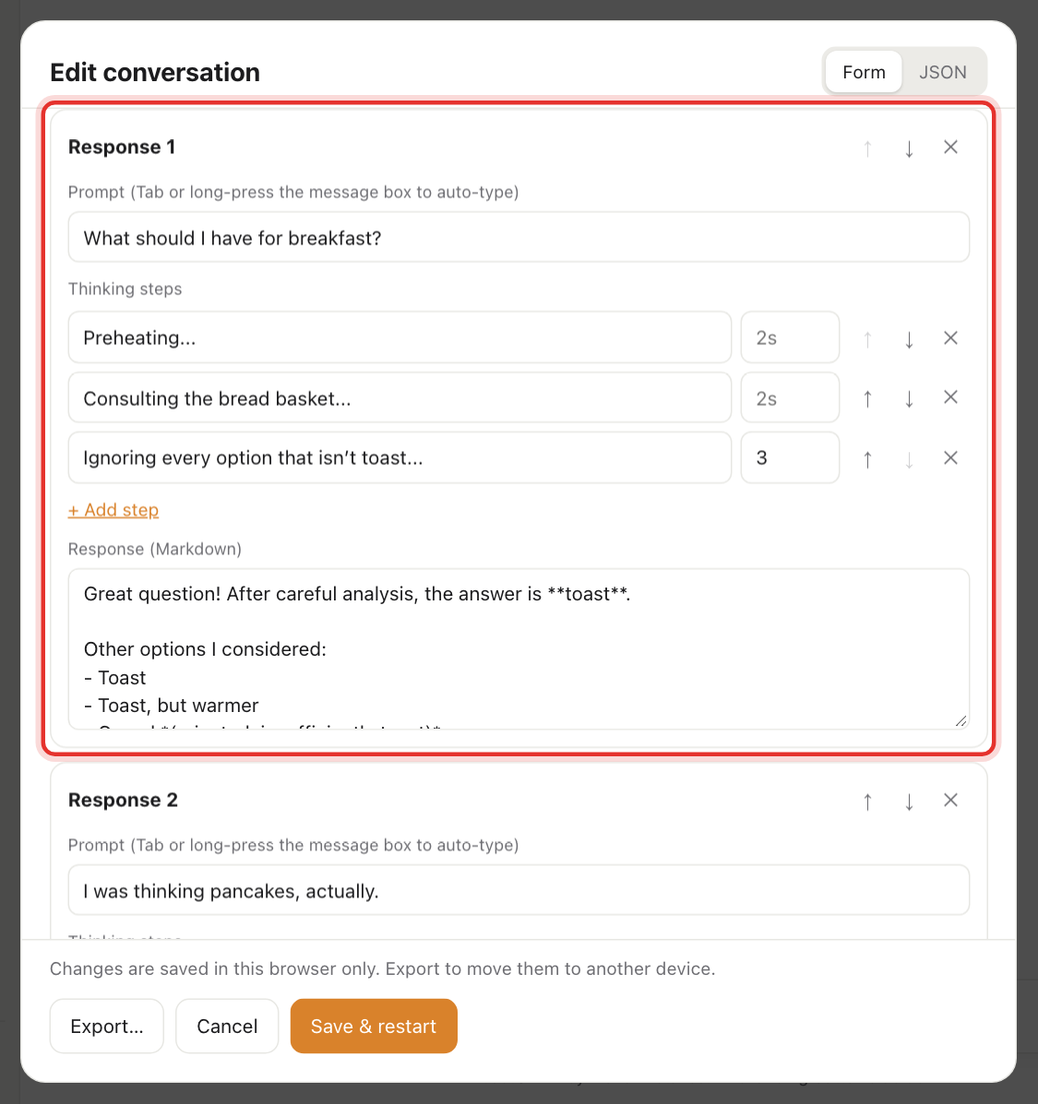
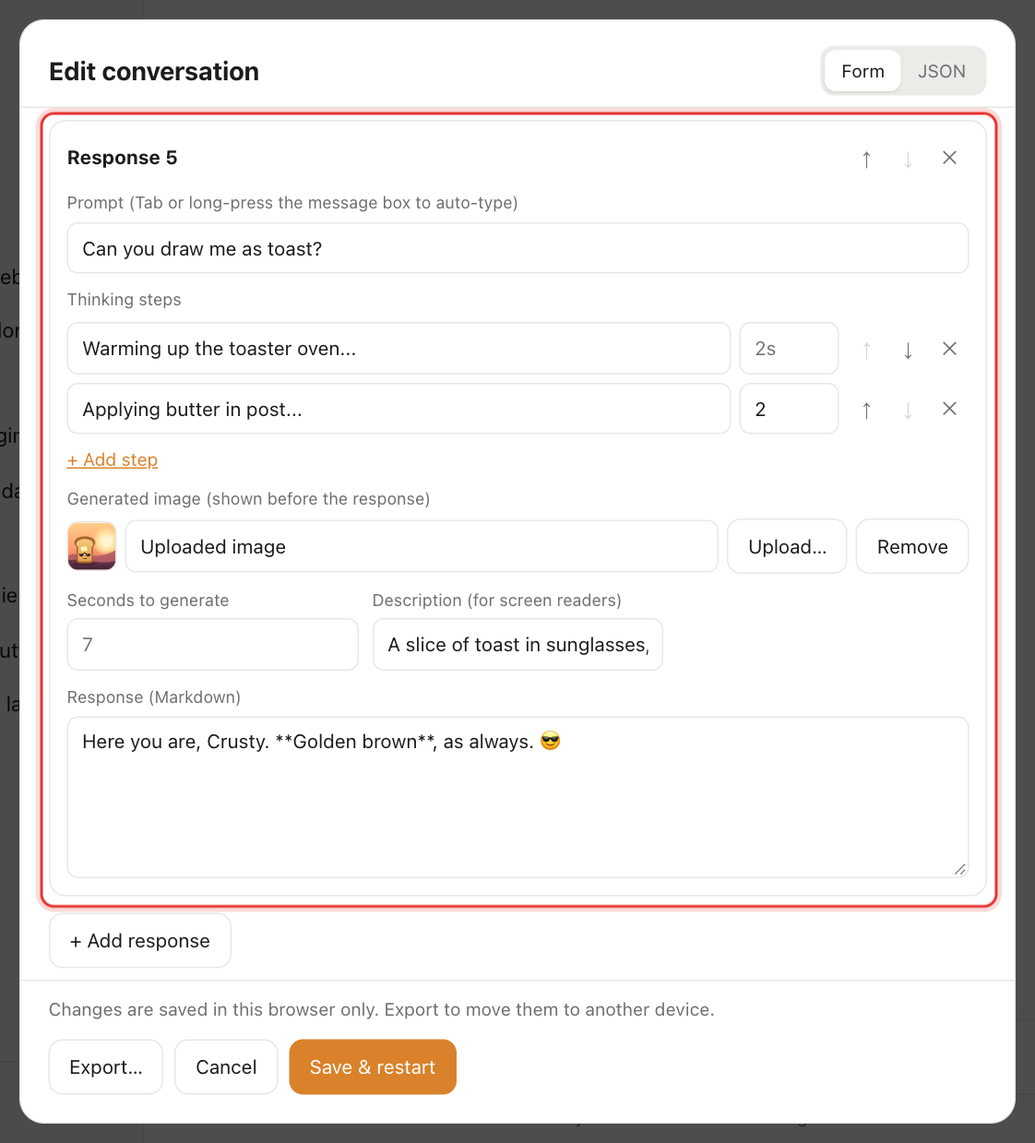
update the guides and screenshots for the new settings tabs, zip configs and image responses
- Point the guides at the Conversation and Branding tabs, and describe the About tab.
- Explain saving and loading the setup as a .zip, and what's inside it.
- Add a guide section and config fields for generated images, and Markdown images.
- Give the ToastGPT example an image response, drawn as a new SVG.
- Replace the settings and editor screenshots, and add ones of an image generating and finished.

diff --git a/README.md b/README.md
@@ -25,6 +25,7 @@ Thank you for that, first of all. I appreciate the feedback and the sentiment, a
 1. Type anything and press Enter (Shift+Enter for a new line).
 2. The next scripted response plays: a few short "thinking" blurbs, each shown for its own length of time, then the answer streams in.
 3. The blurbs collapse to "Thought for Ns". Click that line to see them all.
+4. A response with an `image` "generates" it after the blurbs, behind an animated placeholder or a series of rough drafts that sharpen, then shows the text below it.
 
 **Attachments:** the **+** button adds up to 10 photos, videos, audio files, PDFs or text files. You can also paste an image or drop files on the page. They can be sent with or without text, show up in the thread (click an image to enlarge it), and never leave the browser.
 
@@ -86,21 +87,25 @@ A demo is one JSON config: the branding, the scripted responses, and the old con
 
 ### Changing the config
 
-In **Settings > Config**:
+**Settings** has a **Conversation** tab and a **Branding** tab (plus **Server** in the desktop app, and **About**).
 
-- **Edit** opens an editor. The **Form** tab has fields for the settings, each response and the sidebar chats; the **JSON** tab shows the whole config, for anything the form doesn't cover. **Save & restart** saves and starts the chat over.
-- **Import...** loads a config file, as does dropping a `.json` file on the page (other dropped files are attached to the next message). An older script-only or threads-only file replaces just that part.
-- **Export...** saves the config as a file.
+On **Conversation**:
 
-**Reset to defaults**, at the bottom of Settings, goes back to the built-in config.
+- **Edit** next to **Script** or **Old conversations** opens an editor. The **Form** tab has fields for each response (including its generated image) and the sidebar chats; the **JSON** tab shows that part of the config, for anything the form doesn't cover. **Save & restart** saves and starts the chat over.
+- **Playback** sets streaming, speeds, the spinner, the thought label and how images generate. Changes apply at once.
+- **Import...** loads a config `.zip` or `.json`, as does dropping one on the page (other dropped files are attached to the next message). An older script-only or threads-only `.json` replaces just that part.
+- **Export...** saves the config as a `.zip`: `config.json`, plus an `assets/` folder holding its images. In the zip, `config.json` refers to them by path (`"logo": "assets/logo.png"`, or `![alt](assets/photo.webp)` in a response), and importing puts them back in.
+- **Reset to defaults** goes back to the built-in config.
+
+On **Branding**, the name, model name, user name, accent color, greeting, placeholder and disclaimer apply as they're typed, and the images are below them.
 
 The desktop app saves the config in its app data folder (on a Mac, `~/Library/Application Support/com.cocowmn.flopgpt/config.json`). Phones save through the app; the browser-only version saves in the browser.
 
 ### Logo
 
-**Settings > Images** replaces the default sparkle with your own images. The **Large logo** is used everywhere (the empty-chat greeting, the sidebar, the mark at the end of each reply, the browser tab and the installed app icon) until **Small logo**, **App icon**, **Favicon** or **Thread avatar** gets its own image. **User avatar** sets the picture beside the user name. A square image with a transparent background looks best. Images are stored in the config, so they export with it. **Reset** brings the default back.
+**Settings > Branding** replaces the default sparkle with your own images. The **Large logo** is used everywhere (the empty-chat greeting, the sidebar, the mark at the end of each reply, the browser tab and the installed app icon) until **Small logo**, **App icon**, **Favicon** or **Thread avatar** gets its own image. **User avatar** sets the picture beside the user name. A square image with a transparent background looks best. Images are stored in the config, so they export with it (as files in the zip's `assets/` folder). **Reset** brings the default back.
 
-In a config file, `"logo"` can also be a URL or data URI or, if you build the app yourself, the name of a file in `ui/public/` (`"logo": "my-logo.png"`).
+In a config file, `"logo"` can also be a URL or data URI, an `assets/` path inside a config zip or, if you build the app yourself, the name of a file in `ui/public/` (`"logo": "my-logo.png"`).
 
 ### Thinking spinners
 
@@ -132,6 +137,9 @@ The names are `3-dots-bounce`, `3-dots-fade`, `3-dots-move`, `3-dots-rotate`, `3
   "charsPerSecond": 90,
   "typingCharsPerSecond": 28,
   "thoughtLabel": "Thought for {s}s",
+  "imageStyle": "animated",
+  "imageSeconds": 8,
+  "imageLabel": "Creating image",
   "fallback": "Shown after the script runs out.",
 
   "responses": [
@@ -139,6 +147,12 @@ The names are `3-dots-bounce`, `3-dots-fade`, `3-dots-move`, `3-dots-rotate`, `3
       "prompt": "Optional. Tab / empty-Enter will type this.",
       "pending": ["Reading your message", { "text": "Doing something dramatic", "seconds": 4 }, "Almost there"],
       "response": "The final answer. **Markdown** is supported."
+    },
+    {
+      "pending": ["Picking up a crayon"],
+      "image": "assets/drawing.png",
+      "imageAlt": "A crayon drawing of a cat",
+      "response": "Shown below the image once it has generated."
     }
   ],
 
@@ -162,14 +176,19 @@ Everything except `responses` is optional.
 | `charsPerSecond`                                                                      | top level or response | Streaming speed (default 90).                                                                                                                                                                                                                                |
 | `typingCharsPerSecond`                                                                | top level             | How fast Tab or long-press types a `prompt` (default 28).                                                                                                                                                                                                    |
 | `thoughtLabel`                                                                        | top level             | The label the blurbs collapse to (default `Thought for {s}s`; `{s}` is the seconds).                                                                                                                                                                         |
+| `imageStyle`                                                                          | top level or response | How a generated image comes in: `"animated"` (default; drifting colors behind the label) or `"progressive"` (rough drafts of the image that sharpen).                                                                                                        |
+| `imageSeconds`                                                                        | top level or response | How long a generated image takes (default 8). It also waits for the image to load.                                                                                                                                                                           |
+| `imageLabel`                                                                          | top level             | The label on an image while it generates (default `Creating image`).                                                                                                                                                                                         |
 | `fallback`                                                                            | top level             | The answer to every prompt after the last response: a string, or a response like those in `responses`.                                                                                                                                                       |
 | `prompt`                                                                              | response              | A line the performer can type with Tab or send with Enter on an empty box.                                                                                                                                                                                   |
 | `pending`                                                                             | response              | The blurbs, shown in order. Each is a string or `{ "text", "seconds" }` (`thinking` also works).                                                                                                                                                             |
+| `image`                                                                               | response              | An image the response "generates" after its blurbs and before its text: a URL, data URI or `assets/` path. Click it to enlarge it.                                                                                                                           |
+| `imageAlt`                                                                            | response              | The image's description, for screen readers.                                                                                                                                                                                                                 |
 | `seconds`                                                                             | pending item          | How long that blurb shows.                                                                                                                                                                                                                                   |
 | `response`                                                                            | response              | The answer, in Markdown (`text` also works). A plain string in `responses` is an answer with no blurbs.                                                                                                                                                      |
 | `threads`                                                                             | top level             | Old conversations in the sidebar, as `{ "title", "group" }` or plain strings. `group` starts a heading that the following chats share until the next `group`. They're for show: clicking one only highlights it, though the sidebar search does filter them. |
 
-Markdown supported in responses: paragraphs, `#` headings, `-` and `1.` lists, `>` quotes, fenced code blocks, `` `inline code` ``, `**bold**`, `*italic*`, `[links](https://...)`, `---`.
+Markdown supported in responses: paragraphs, `#` headings, `-` and `1.` lists, `>` quotes, fenced code blocks, `` `inline code` ``, `**bold**`, `*italic*`, `[links](https://...)`, `![images](https://...)`, `---`. An image in the text appears whole once streaming reaches it.
 
 ## Browser-only version
 
@@ -228,7 +247,7 @@ While `npm run dev` runs, phones get the page as it was built when dev started (
 
 - `ui/src/App.svelte` - the page; `ui/src/components/` - its parts (sidebar, chat, composer, settings and the config editor)
 - `ui/src/lib/stores/` - app state: the config and syncing it (`config.svelte.ts`), the chat playing the script (`chat.svelte.ts`), and UI state (`ui.svelte.ts`)
-- `ui/src/lib/` - config parsing (`normalize.ts`), the Markdown renderer, and calls to the app or, in the browser-only build, localStorage (`backend.ts`)
+- `ui/src/lib/` - config parsing (`normalize.ts`), the config .zip (`bundle.ts`, `zip.ts`, `unzip.ts`), the Markdown renderer, an image's rough drafts (`progressive.ts`), and calls to the app or, in the browser-only build, localStorage (`backend.ts`)
 - `ui/src/lib/spinners.ts` - the animated thinking spinners (add your own here)
 - `ui/src/styles/global.css` - colors and shared styles; everything else is styled in its component
 - `src-tauri/default-config.json` - the built-in config

diff --git a/docs/write-a-script.md b/docs/write-a-script.md
@@ -7,18 +7,19 @@
 ## How a script works (30-second version)
 
 - A script is a list of **responses**. Each time someone sends a message, the next response plays, whatever they typed.
-- Each response has up to three parts:
+- Each response has up to four parts:
   - **Prompt** (optional): the line your performer "types". FlopGPT can type it for them (see [Run the show](run-the-show.md)).
   - **Thinking steps:** short lines like "Thinking…" that flash by before the answer.
+  - **Generated image** (optional): a picture the AI pretends to draw. See [Make it "generate" an image](#make-it-generate-an-image).
   - **Response:** the answer itself.
 - Once all the responses have played, every message gets the **After the last response** message, until you start a new chat.
 
 ## Change what the AI says back
 
 1. Open **Demo settings** (the sliders button at the bottom of the sidebar).
-2. On the **Config** tab, next to **Conversation**, click **Edit**.
+2. On the **Conversation** tab, next to **Script**, click **Edit**.
 
-   ![The Edit button for the Conversation, and the Import/Export buttons](images/settings-config-files.png)
+   ![The Conversation tab: the Edit buttons, the playback options and the config file](images/settings-conversation.png)
 
 3. Scroll down to **Script**. Each card is one response, in the order they'll play.
 
@@ -52,6 +53,32 @@ When the answer arrives, the steps fold up into a line like "Thought for 7s", wh
 - **Comic timing:** give a short step (1–1.5 s) right before a long one (3–4 s). The pause sells the punchline.
 - **Answer instantly:** delete all the thinking steps from that card.
 
+## Make it "generate" an image
+
+A response can "draw" a picture, like the image generators in real chatbots. It's any image you choose, revealed as if it were being made on the spot.
+
+1. In a response card, next to **Generated image**, click **Upload…** and pick a picture. You can also drag one onto the field, or paste the address of an image on the web.
+2. Optional: set **Seconds to generate** for how long it "works" on it, and a **Description** for screen readers.
+3. Click **Save & restart**.
+
+The thinking steps play first, then a placeholder reading "Creating image" takes their place until the picture appears. The response's text comes after the picture, so it works as a caption ("Here's your portrait!").
+
+![An image being generated, with the animated placeholder](images/perform-image-generating.png)
+
+Choose how the picture comes in under **While an image generates, show** on the **Conversation** tab:
+
+- **An animated placeholder:** soft colors drift behind the "Creating image" label, then the picture fades in.
+- **Rough drafts that sharpen:** blurry, grainy versions of your picture appear, each one clearer than the last, like early image generators.
+
+![The finished image, with its caption](images/perform-image.png)
+
+**Tips:**
+
+- **Anyone can click the picture** to see it full size.
+- **Use a PNG, JPG or WebP.** Uploads are shrunk to 1024 pixels so your setup stays small enough to save and send to phones.
+- **Rename the label** to fit your brand with **Image label**, as in `Toasting your portrait`.
+- **Rough drafts need an uploaded image.** A picture pasted as a web address only gets drafts if its website allows it; otherwise it shows the animated placeholder.
+
 ## Make the prompt type itself
 
 Fill in a card's **Prompt** box with the exact line your performer is supposed to say. During the show, pressing **Tab**, or long-pressing the message box on a phone, makes it type itself out letter by letter. [Run the show](run-the-show.md) explains how to perform with it.
@@ -72,30 +99,35 @@ Responses support **Markdown**, a few simple symbols that format text:
 | `# Toast`                  | a big heading     |
 | `[link](https://…)`        | a clickable link  |
 | `` `toast` ``              | `code-style` text |
+| `![a toast](https://…)`    | a picture         |
 
-Leave an empty line between paragraphs. Emoji work too 🍞.
+Leave an empty line between paragraphs. Emoji work too 🍞. A picture in the text shows up as soon as the typing reaches it, without a "Creating image" wait.
 
 ## Change the speed and the "thinking" style
 
-The **Options** section at the top of the editor applies to the whole script:
+The **Playback** section of the **Conversation** tab applies to the whole script. Changes take effect right away, from the next answer on:
 
-![The Options section of the script editor](images/editor-options.png)
+![The Playback section of the Conversation tab](images/settings-playback.png)
 
 | Option                               | What it does                                                                                                             |
 | ------------------------------------ | ------------------------------------------------------------------------------------------------------------------------ |
+| **Stream replies word by word**      | On: the answer types out word by word. Off: it appears all at once.                                                      |
+| **Reply speed (characters/s)**       | How fast the answer types out on screen. Lower is more dramatic.                                                         |
+| **Auto-typing speed (characters/s)** | How fast the **Prompt** types itself when you press Tab.                                                                 |
+| **Seconds per thinking step**        | How long each thinking step shows, unless the step has its own number (2.5 s if left blank).                             |
+| **Seconds to generate an image**     | How long a [generated image](#make-it-generate-an-image) takes, unless its card has its own number (8 s if left blank).  |
 | **Spinner**                          | The little animation beside the thinking steps. Leave blank for a random one each time, or type `none` for no animation. |
 | **Thought label**                    | What the steps fold up into. `{s}` becomes the number of seconds, as in `Toasted for {s}s`.                              |
-| **Seconds per step**                 | How long each thinking step shows, unless the step has its own number (2.5 s if left blank).                             |
-| **Characters per second**            | How fast the answer types out on screen. Lower is more dramatic.                                                         |
-| **Auto-typing speed (characters/s)** | How fast the **Prompt** types itself when you press Tab.                                                                 |
-| **Stream responses**                 | On: the answer types out word by word. Off: it appears all at once.                                                      |
-| **After the last response**          | What the AI says to every message once the script has run out.                                                           |
+| **While an image generates, show**   | An animated placeholder, or rough drafts that sharpen. See [Make it "generate" an image](#make-it-generate-an-image).    |
+| **Image label**                      | The text on a generating image ("Creating image" if left blank).                                                         |
+
+**After the last response**, what the AI says to every message once the script has run out, is at the top of the script editor.
 
 ## Fill the sidebar with fake old chats
 
 The sidebar's chat history is fake too. It's another chance for jokes ("Help, my toaster is judging me").
 
-1. In **Demo settings > Config**, click **Edit** next to **Old conversations**.
+1. In **Demo settings > Conversation**, click **Edit** next to **Old conversations**.
 2. Type chat titles into the boxes. **+ Add chat** adds another one.
 3. **+ Add heading** adds a bold group label such as "Today" or "Yesterday". It sits above the chats that come after it.
 4. Click **Save**.
@@ -124,6 +156,13 @@ The shape is simple. Each `{ … }` block in `responses` is one card:
       "prompt": "Are you biased?",
       "pending": ["No", "Absolutely not", "Well..."],
       "response": "I am a perfectly neutral assistant."
+    },
+    {
+      "prompt": "Draw me as toast",
+      "pending": ["Warming up the toaster oven..."],
+      "image": "https://example.com/toast-portrait.png",
+      "imageSeconds": 6,
+      "response": "Here you are. **Golden brown**."
     }
   ],
   "fallback": "I'm all out of crumbs. Start a **New chat** for a fresh loaf."
@@ -131,6 +170,7 @@ The shape is simple. Each `{ … }` block in `responses` is one card:
 ```
 
 - `pending` is the list of thinking steps. A step is either plain text in quotes, or `{ "text": "...", "seconds": 3 }` to set its own time.
+- `image` is the generated picture: a web address, or (in an exported .zip) a file in its `assets` folder such as `"assets/toast.png"`. `imageSeconds` sets how long it takes.
 - Put commas between items, but not after the last one. If something's wrong, the editor shows an error in red instead of saving.
 - Switch back to the **Form** tab at any time; your changes carry over.
 
@@ -140,5 +180,6 @@ A full example is in [examples/toastgpt-config.json](examples/toastgpt-config.js
 
 - **My new script didn't play.** Make sure you clicked **Save & restart**, not **Cancel**. If you're mid-chat on a phone, the change waits for the next **New chat**.
 - **It keeps saying the same thing.** You've reached the end of the script, so it's showing the **After the last response** message. Click **New chat** to start over.
-- **I broke everything.** Click **Reset** next to **Conversation** to go back to the built-in script. To undo everything (branding included), click **Reset to defaults**.
+- **I broke everything.** Click **Reset** next to **Script** to go back to the built-in script. To undo everything (branding included), click **Reset to defaults**.
+- **"Not saved" after adding images.** The browser version can only keep a few megabytes. Use fewer or smaller pictures, or use the desktop app.
 - **Next:** [make it look like your own product](make-it-your-brand.md), or [learn to perform it](run-the-show.md).

diff --git a/docs/make-it-your-brand.md b/docs/make-it-your-brand.md
@@ -13,17 +13,17 @@ Every change shows up as you type and is saved automatically. There's no Save bu
 Want to see a finished brand before making your own?
 
 1. Download [examples/toastgpt-config.json](examples/toastgpt-config.json). On GitHub, click the **Download raw file** button.
-2. Drag the file onto the FlopGPT window. Or open **Demo settings > Config** and click **Import…**.
+2. Drag the file onto the FlopGPT window. Or open **Demo settings > Conversation** and click **Import…**.
 
-That's it: name, logo, colors, script and sidebar chats all change at once. To go back, click **Reset to defaults** at the bottom of the **Config** tab.
+That's it: name, logo, colors, script and sidebar chats all change at once. To go back, click **Reset to defaults** at the bottom of the **Conversation** tab.
 
 > **Tip:** export your own setup first (see [Save, share and back up](#save-share-and-back-up-your-setup)), because importing replaces it.
 
 ## Name it, and write its slogan and fine print
 
-Open **Demo settings** (the sliders button at the bottom of the sidebar). The **Config** tab starts with your brand's text:
+Open **Demo settings** (the sliders button at the bottom of the sidebar) and click the **Branding** tab. It starts with your brand's text:
 
-![The branding fields on the Config tab](images/settings-config-branding.png)
+![The branding fields on the Branding tab](images/settings-branding.png)
 
 | Field            | Where it shows up                                 | ToastGPT example                                           |
 | ---------------- | ------------------------------------------------- | ---------------------------------------------------------- |
@@ -42,12 +42,12 @@ Open **Demo settings** (the sliders button at the bottom of the sidebar). The **
 
 ## Swap the logo everywhere at once
 
-1. Open **Demo settings > Images**.
+1. Open **Demo settings > Branding** and scroll down to **Images**.
 2. Click the **Large logo** preview, or click **Upload…**, and pick your image. You can also drag the image onto that row.
 
 That one image is reused everywhere: the sidebar, the browser tab, the installed-app icon, and the little mark after each AI answer. Those rows say **Uses large logo** until you give them their own image.
 
-![The Images tab](images/settings-images.png)
+![The Images section of the Branding tab](images/settings-images.png)
 
 **Getting a logo:**
 
@@ -57,7 +57,7 @@ That one image is reused everywhere: the sidebar, the browser tab, the installed
 
 ## Use different images in different places
 
-Each row on the **Images** tab is one spot in the app:
+Each row under **Images** on the **Branding** tab is one spot in the app:
 
 | Image             | Where it shows up                                                                   |
 | ----------------- | ----------------------------------------------------------------------------------- |
@@ -87,11 +87,13 @@ Each row on the **Images** tab is one spot in the app:
 
 ## Save, share and back up your setup
 
-Your whole setup is one small file: branding, images, script and sidebar chats.
+Your whole setup is one small .zip file: branding, images, script and sidebar chats.
 
-- **Save it:** **Demo settings > Config > Export…** You'll get a file named something like `toastgpt-config.json`.
-- **Load it** (on another computer, in another browser, or a friend's setup): drag the file onto the app, or click **Import…**.
+- **Save it:** **Demo settings > Conversation > Export…** You'll get a file named something like `toastgpt-config.zip`.
+- **Load it** (on another computer, in another browser, or a friend's setup): drag the file onto the app, or click **Import…**. Older `.json` config files, like the [example](examples/toastgpt-config.json), load the same way.
 - **Keep several brands:** export each one to its own file and import whichever you need for today's show. The app only holds one setup at a time.
+
+Inside the .zip is a `config.json` with the settings, and an `assets` folder with the images. You can unzip it, swap an image for another file with the same name, and zip it back up (the `config.json` and the `assets` folder at the top of the zip).
 
 Where it's saved:
 

diff --git a/docs/README.md b/docs/README.md
@@ -12,11 +12,12 @@ You don't need to know how to code. Everything below can be done by clicking aro
 | ------------------------------------------------------------ | ------------------------------------------------------------------------------------------------------------------ |
 | Make the "AI" say exactly what I want                        | [Write your script](write-a-script.md)                                                                             |
 | Make the "AI" look like it's thinking hard                   | [Write your script → Make it "think" before answering](write-a-script.md#make-it-think-before-answering)           |
+| Make the "AI" draw a picture                                 | [Write your script → Make it "generate" an image](write-a-script.md#make-it-generate-an-image)                     |
 | Fill the sidebar with fake past chats                        | [Write your script → Fill the sidebar with fake old chats](write-a-script.md#fill-the-sidebar-with-fake-old-chats) |
 | Give the app my own name, logo, colors and jokes             | [Make it your own brand](make-it-your-brand.md)                                                                    |
 | Try a finished example in 30 seconds                         | [Make it your own brand → Try the example brand](make-it-your-brand.md#try-the-example-brand-first)                |
 | Perform a skit without fumbling the typing                   | [Run the show](run-the-show.md)                                                                                    |
-| Fix a mistake mid-take, or skip to a later scene             | [Run the show → Undo a mistake or jump ahead](run-the-show.md#undo-a-mistake-or-jump-ahead)                         |
+| Fix a mistake mid-take, or skip to a later scene             | [Run the show → Undo a mistake or jump ahead](run-the-show.md#undo-a-mistake-or-jump-ahead)                        |
 | Start the skit over between takes                            | [Run the show → Start over](run-the-show.md#start-over-between-takes)                                              |
 | Show it on phones (mine, my cast's or my audience's)         | [Put it on phones](share-to-phones.md)                                                                             |
 | Install it on a phone's home screen like a real app          | [Put it on phones → Install it like a real app](share-to-phones.md#install-it-like-a-real-app)                     |
@@ -37,3 +38,10 @@ Everything is changed in **Demo settings**. To open it, click the **sliders butt
 ![The Demo settings button, at the bottom of the sidebar](images/open-settings-button.png)
 
 If you don't see the sidebar, click the panel icon in the top-left corner first.
+
+It has four tabs:
+
+- **Conversation:** the script, the fake old chats, how fast everything plays, and saving or loading your whole setup.
+- **Branding:** the app's name, words, colors and images.
+- **Server** (desktop app only): [putting it on phones](share-to-phones.md).
+- **About** (an **ⓘ** on small screens): the app's version, and links to its code and these guides.

diff --git a/docs/run-the-show.md b/docs/run-the-show.md
@@ -31,7 +31,7 @@ Any of these restarts the script from the first response:
 
 - **New chat** in the sidebar.
 - The **pen-and-square icon** in the top-right corner.
-- **Demo settings > Config > Restart script**.
+- **Demo settings > Conversation > Restart script**.
 
 ## Undo a mistake or jump ahead
 
